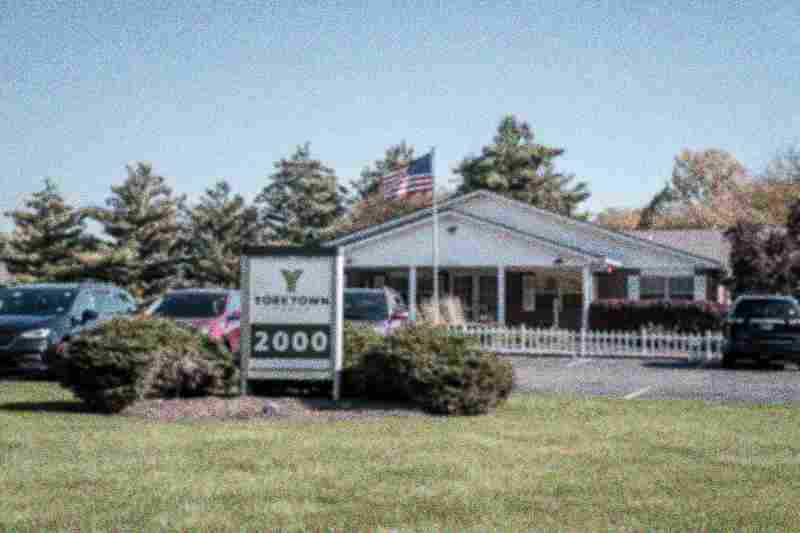
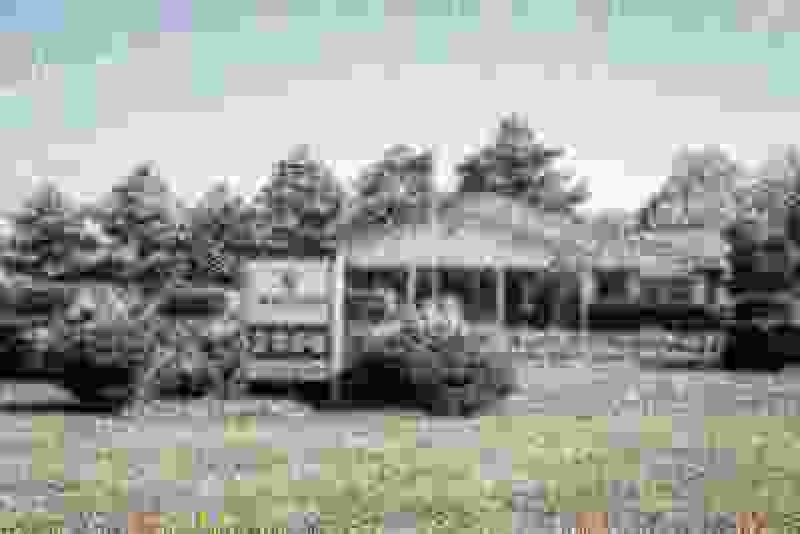
fix: correct case-sensitive image path and aggressively increase image degradation

diff --git a/src/app/photoservices/page.tsx b/src/app/photoservices/page.tsx
@@ -197,7 +197,7 @@ export default function PhotoServices() {
           
           <div data-reveal>
             <BeforeAfterSlider 
-              beforeImage="/images/gallery/yorktown_front_before.jpg" 
+              beforeImage="/images/gallery/Yorktown_front_before.jpg" 
               afterImage="/images/gallery/Yorktown%20front.jpg"
             />
             <p className="ba-caption">Drag the handle &mdash; left is typical phone photo // right is professional photography</p>
